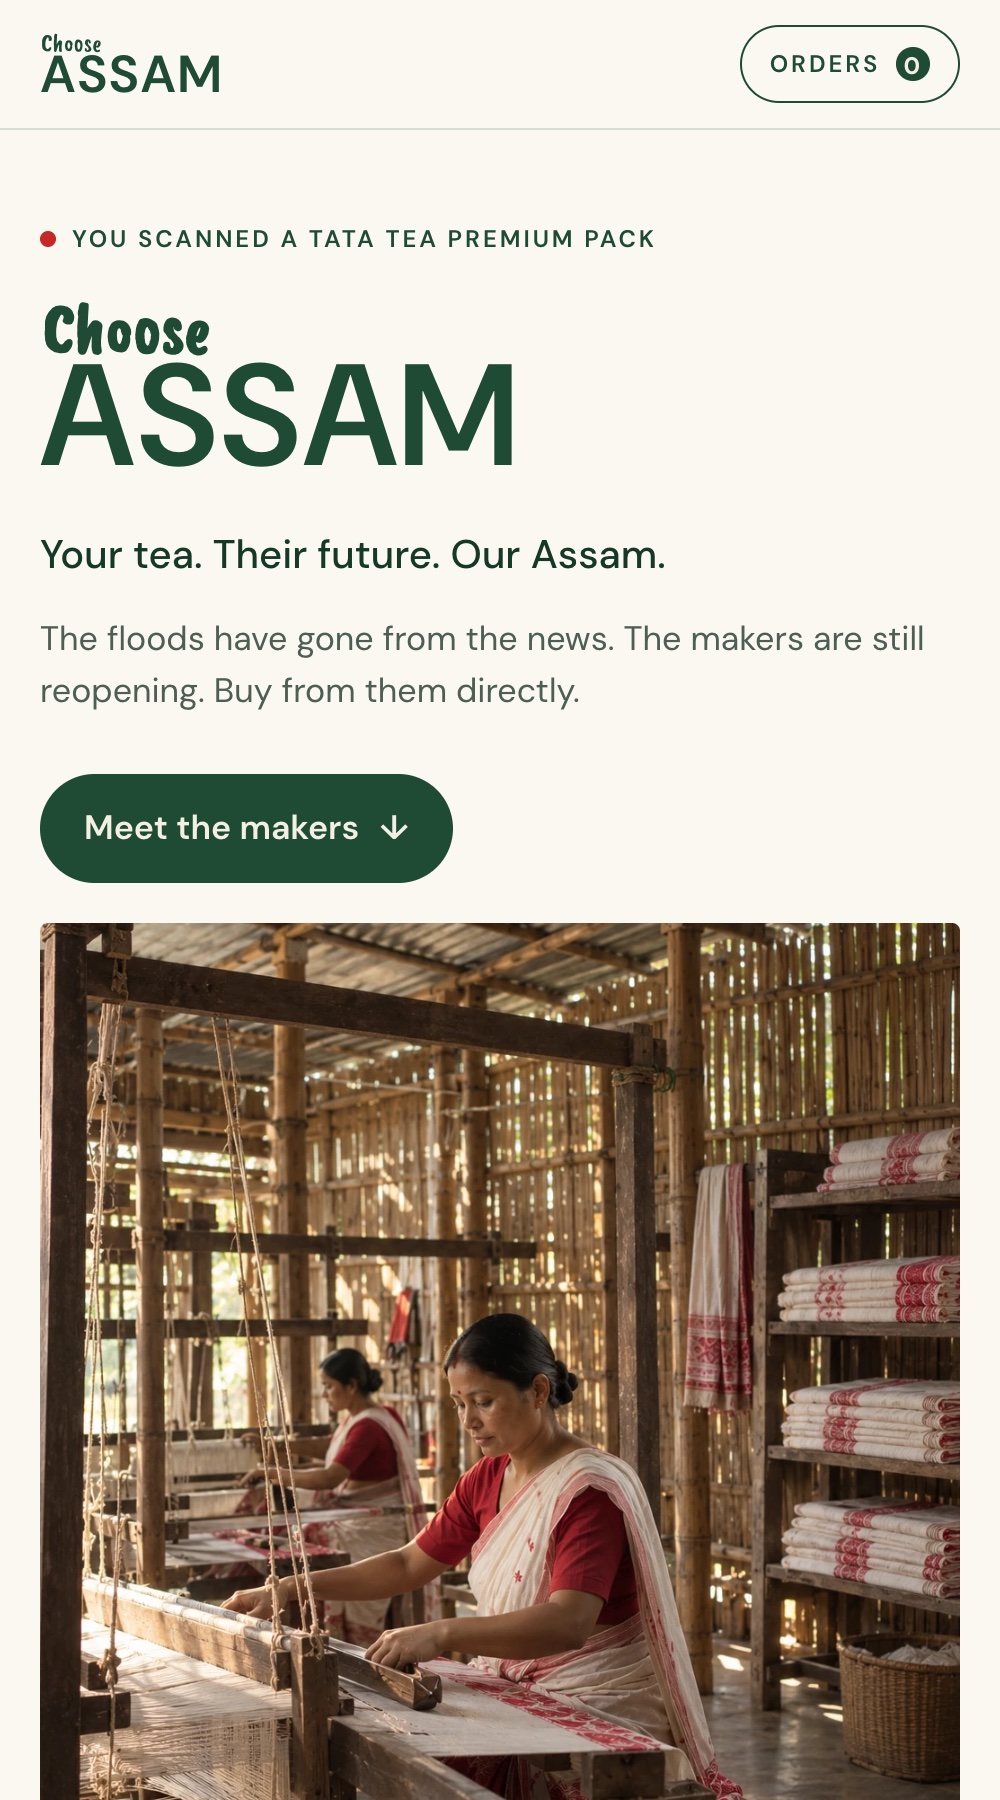
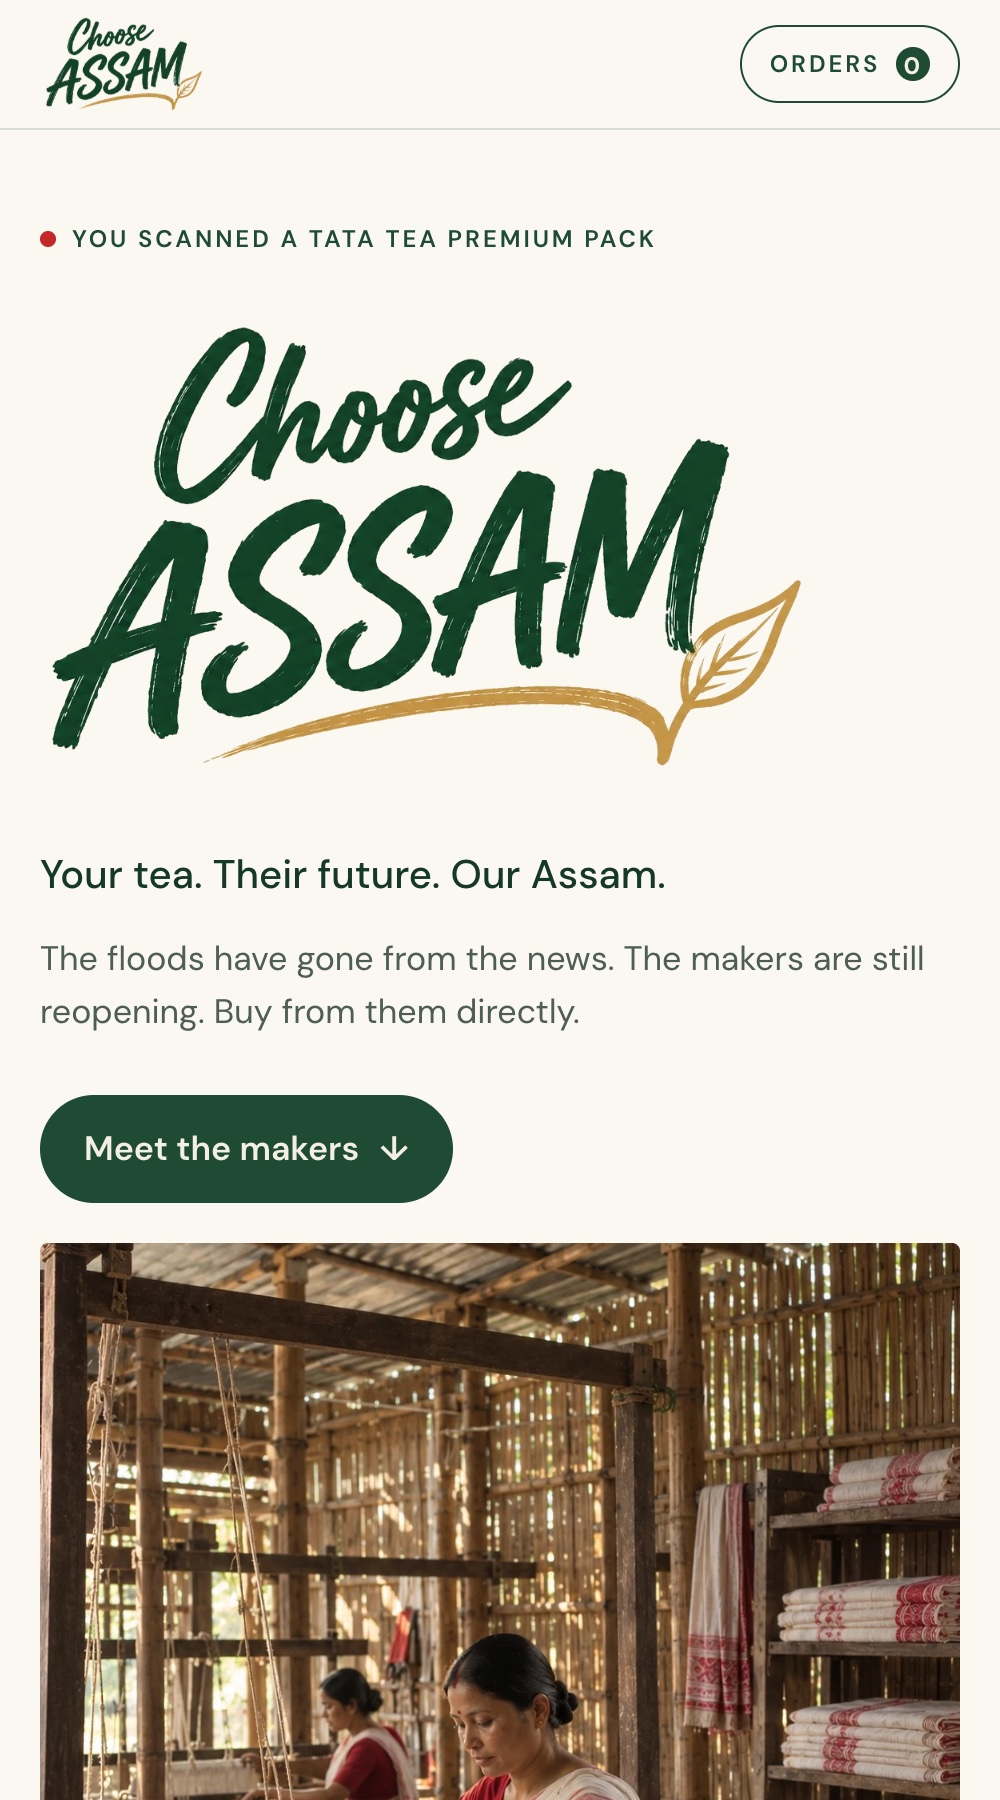
Unify the Choose Assam brand across every touchpoint
One logo (brush Choose over brushed ASSAM with a gold leaf) and one copy
system on the pack front and back, hang tag, billboard, end-cap and tea
pour. The microsite and case study now use the logo itself instead of a
font stand-in; the serif identity sheet and the off-brand pack shots are
replaced by an identity panel with the four colours.

diff --git a/index.html b/index.html
@@ -111,6 +111,14 @@ figcaption { margin-top: 12px; }
 .sources li { padding: 14px 0; border-bottom: 1px solid var(--rule); font-size: 15px; line-height: 1.45; }
 .sources li span { display: block; color: var(--ink-2); }
 
+.id-panel { background: #F4EFE3; display: grid; place-items: center; padding: clamp(56px, 10vw, 160px) var(--gutter); }
+.id-panel img { width: min(560px, 80%); }
+.swatches { display: grid; grid-template-columns: repeat(4, minmax(0, 1fr)); gap: clamp(8px, 1vw, 16px); margin-top: clamp(8px, 1vw, 16px); }
+.swatches li { display: grid; gap: 4px; }
+.swatches i { display: block; aspect-ratio: 3 / 1; margin-bottom: 8px; }
+.swatches li:nth-child(2) i { outline: 1px solid var(--rule); outline-offset: -1px; }
+@media (max-width: 820px) { .swatches { grid-template-columns: repeat(2, minmax(0, 1fr)); row-gap: 20px; } }
+
 footer { padding: 28px var(--gutter) 40px; display: flex; justify-content: space-between; gap: 24px; }
 
 @media (prefers-reduced-motion: no-preference) {
@@ -278,38 +286,43 @@ footer { padding: 28px var(--gutter) 40px; display: flex; justify-content: space
     <ol class="row-6">
       <li><a href="#top" aria-label="Play the film at the top of the page"><img src="assets/tp-film.jpg" alt="A family watches the Choose Assam film on TV at home" loading="lazy"></a><div class="n label"><span>Cinematic film</span><span class="muted">60s anthem</span></div></li>
       <li><img src="assets/tp-social.jpg" alt="A commuter watches a Choose Assam reel on her phone on a Mumbai local train" loading="lazy"><div class="n label"><span>Social media</span><span class="muted">Vertical cuts, maker stories</span></div></li>
-      <li><img src="assets/tp-pack.jpg" alt="A hand takes a Choose Assam pack from a kitchen shelf" loading="lazy"><div class="n label"><span>Packaging</span><span class="muted">Limited-edition pack</span></div></li>
-      <li><img src="assets/tp-qr.jpg" alt="Scanning the QR hang tag on a Choose Assam pack" loading="lazy"><div class="n label"><span>QR code</span><span class="muted">Pack, tag, billboard</span></div></li>
+      <li><img src="assets/pour.jpg" alt="Tea poured beside the Choose Assam pack on a kitchen table" loading="lazy" style="object-position:72% 50%"><div class="n label"><span>Packaging</span><span class="muted">Limited-edition pack</span></div></li>
+      <li><img src="assets/hang-tag.jpg" alt="The Choose Assam hang tag and its QR card: scan to meet the maker" loading="lazy"><div class="n label"><span>QR code</span><span class="muted">Pack, tag, billboard</span></div></li>
       <li><a href="site/" aria-label="Open the Choose Assam microsite"><img src="assets/site-shot.jpg" alt="Choose Assam microsite on a phone" loading="lazy" style="object-position:50% 0"></a><div class="n label"><span>Website</span><span class="muted">Maker directory</span></div></li>
-      <li><img src="assets/identity-lockup.jpg" alt="Choose Assam lockup and hang tag" loading="lazy"><div class="n label"><span>Branding</span><span class="muted">Choose Assam identity</span></div></li>
+      <li><img src="assets/lockup.png" alt="Choose Assam logo" loading="lazy" style="object-fit:contain;background:#F4EFE3;padding:16%"><div class="n label"><span>Branding</span><span class="muted">Choose Assam identity</span></div></li>
     </ol>
   </section>
 
-  <figure class="wrap gap-xl rv">
-    <img src="assets/identity-sheet.jpg" alt="Choose Assam identity: lockup, motifs, colours, typography and tone of voice" loading="lazy">
-    <figcaption class="label muted">Identity · Choose Assam</figcaption>
-  </figure>
+  <section class="wrap gap-xl rv" aria-label="Identity">
+    <div class="id-panel"><img src="assets/lockup.png" alt="Choose Assam logo: a brush-script Choose over brushed ASSAM, with a gold tea-leaf underline" loading="lazy"></div>
+    <ol class="swatches label">
+      <li><i style="background:#1F4B34"></i><span>Assam Green</span><span class="muted">#1F4B34</span></li>
+      <li><i style="background:#F4EFE3"></i><span>Warm Ivory</span><span class="muted">#F4EFE3</span></li>
+      <li><i style="background:#C8A46A"></i><span>Muga Gold</span><span class="muted">#C8A46A</span></li>
+      <li><i style="background:#C62828"></i><span>Gamosa Red</span><span class="muted">#C62828</span></li>
+    </ol>
+    <p class="label muted" style="margin-top:12px">Identity · One logo on every touchpoint</p>
+  </section>
 
   <figure class="gap-xl bleed rv">
-    <img src="assets/figma-01.jpg" alt="Choose Assam limited-edition Tata Tea Premium pouch with hang tag on a wooden table" loading="lazy">
+    <img src="assets/pack-front.jpg" alt="Choose Assam limited-edition Tata Tea Premium pouch: Now put Assam in your cart" loading="lazy">
     <figcaption class="wrap label muted">Pack · Front</figcaption>
   </figure>
 
   <section class="wrap gap-lg pair rv" aria-label="Pack and retail">
-    <figure><img src="assets/figma-02.jpg" alt="Back of the pouch with an Assam map and maker stories" loading="lazy"><figcaption class="label muted">Pack · Back</figcaption></figure>
+    <figure><img src="assets/pack-back.jpg" alt="Back of the pouch: This pack doesn't donate. It points. Scan the tag to meet the makers open this week." loading="lazy"><figcaption class="label muted">Pack · Back</figcaption></figure>
     <div class="drop">
       <p class="note">This pack doesn't donate. It points to the makers who are open this week.</p>
-      <figure class="gap-lg"><img src="assets/film-pour.jpg" alt="Tea poured into a cup beside the Choose Assam pack" loading="lazy"></figure>
     </div>
   </section>
 
   <figure class="wrap gap-lg rv">
-    <img src="assets/figma-03.jpg" alt="Supermarket end-cap stocked with Choose Assam packs" loading="lazy">
+    <img src="assets/endcap.jpg" alt="Supermarket end-cap: Assam makes a lot more than tea. Now put Assam in your cart." loading="lazy">
     <figcaption class="label muted">Retail · End-cap</figcaption>
   </figure>
 
   <figure class="gap-xl bleed rv">
-    <img src="assets/figma-07.jpg" alt="Guwahati roadside billboard: this billboard used to sell tea, today it sells Jonali's work" loading="lazy">
+    <img src="assets/billboard.jpg" alt="Guwahati roadside billboard: this billboard used to sell tea, today it sells Jonali's work" loading="lazy">
     <figcaption class="wrap label muted">Outdoor · GS Road, Guwahati</figcaption>
   </figure>
 

diff --git a/site/index.html b/site/index.html
@@ -7,7 +7,7 @@
 <meta name="description" content="You scanned a Choose Assam pack. Meet the makers of Assam who are open this week, and order from them directly.">
 <link rel="preconnect" href="https://fonts.googleapis.com">
 <link rel="preconnect" href="https://fonts.gstatic.com" crossorigin>
-<link href="https://fonts.googleapis.com/css2?family=Caveat+Brush&family=DM+Sans:opsz,wght@9..40,300..700&display=swap" rel="stylesheet">
+<link href="https://fonts.googleapis.com/css2?family=DM+Sans:opsz,wght@9..40,300..700&display=swap" rel="stylesheet">
 <style>
 :root {
   --green: #1F4B34;
@@ -36,14 +36,13 @@ button { font: inherit; }
 .label { font-size: 12px; font-weight: 600; letter-spacing: 0.12em; text-transform: uppercase; }
 .muted { color: var(--ink-2); }
 .wrap { padding: 0 var(--gutter); max-width: 1320px; margin: 0 auto; }
-.lockup { display: inline-flex; flex-direction: column; line-height: 0.82; color: var(--green); }
-.lockup .s { font-family: 'Caveat Brush', cursive; font-size: 0.5em; margin-left: 0.04em; }
-.lockup .c { font-weight: 600; letter-spacing: 0.02em; }
+.lockup { display: block; margin: 0; }
+.lockup img { width: 100%; height: auto; }
 
 /* nav */
 .nav { position: sticky; top: 0; z-index: 5; background: color-mix(in srgb, var(--paper) 94%, transparent); backdrop-filter: blur(8px); border-bottom: 1px solid var(--rule); }
 .nav .wrap { display: flex; align-items: center; justify-content: space-between; gap: 20px; height: 64px; }
-.nav .lockup { font-size: 26px; }
+.nav .lockup { width: 84px; }
 .nav nav { display: flex; gap: clamp(14px, 2.4vw, 32px); }
 .nav nav a { text-decoration: none; }
 .nav nav a:hover { color: var(--red); }
@@ -52,7 +51,7 @@ button { font: inherit; }
 
 /* hero */
 .hero { display: grid; grid-template-columns: minmax(0, 1fr) minmax(0, 1fr); gap: var(--gutter); align-items: end; padding-top: clamp(40px, 7vw, 96px); }
-.hero .lockup { font-size: clamp(72px, 10vw, 150px); }
+.hero .lockup { width: min(440px, 88%); margin-left: -2%; }
 .hero .tag { font-size: clamp(20px, 2vw, 26px); margin-top: 24px; font-weight: 500; }
 .hero .sub { margin-top: 14px; max-width: 38ch; color: var(--ink-2); }
 .cta { display: inline-flex; align-items: center; gap: 10px; margin-top: 28px; padding: 14px 22px; background: var(--green); color: var(--ivory); border: 0; border-radius: 999px; text-decoration: none; font-weight: 600; cursor: pointer; transition: background-color 200ms var(--ease-out); }
@@ -109,7 +108,6 @@ button { font: inherit; }
 /* promise + footer */
 .promise { text-align: center; padding: clamp(96px, 12vw, 180px) var(--gutter); }
 .promise p { font-size: clamp(28px, 3.6vw, 52px); font-weight: 300; letter-spacing: -0.03em; line-height: 1.1; max-width: 22ch; margin: 0 auto; }
-.promise .s { font-family: 'Caveat Brush', cursive; color: var(--red); }
 footer { border-top: 1px solid var(--rule); }
 footer .wrap { display: flex; justify-content: space-between; gap: 24px; padding-top: 24px; padding-bottom: 32px; flex-wrap: wrap; }
 
@@ -133,7 +131,7 @@ footer .wrap { display: flex; justify-content: space-between; gap: 24px; padding
 
 <header class="nav">
   <div class="wrap">
-    <a href="#top" class="lockup" style="text-decoration:none" aria-label="Choose Assam home"><span class="s">Choose</span><span class="c">ASSAM</span></a>
+    <a href="#top" class="lockup" aria-label="Choose Assam home"><img src="../assets/lockup.png" alt="Choose Assam"></a>
     <nav class="label" aria-label="Main">
       <a href="#makers">Makers</a>
       <a href="#story">Stories</a>
@@ -147,7 +145,7 @@ footer .wrap { display: flex; justify-content: space-between; gap: 24px; padding
   <section class="wrap hero">
     <div>
       <p class="scanned label">You scanned a Tata Tea Premium pack</p>
-      <h1 class="lockup"><span class="s">Choose</span><span class="c">ASSAM</span></h1>
+      <h1 class="lockup"><img src="../assets/lockup.png" alt="Choose Assam"></h1>
       <p class="tag">Your tea. Their future. Our Assam.</p>
       <p class="sub">The floods have gone from the news. The makers are still reopening. Buy from them directly.</p>
       <a class="cta" href="#makers">Meet the makers <span aria-hidden="true">↓</span></a>
